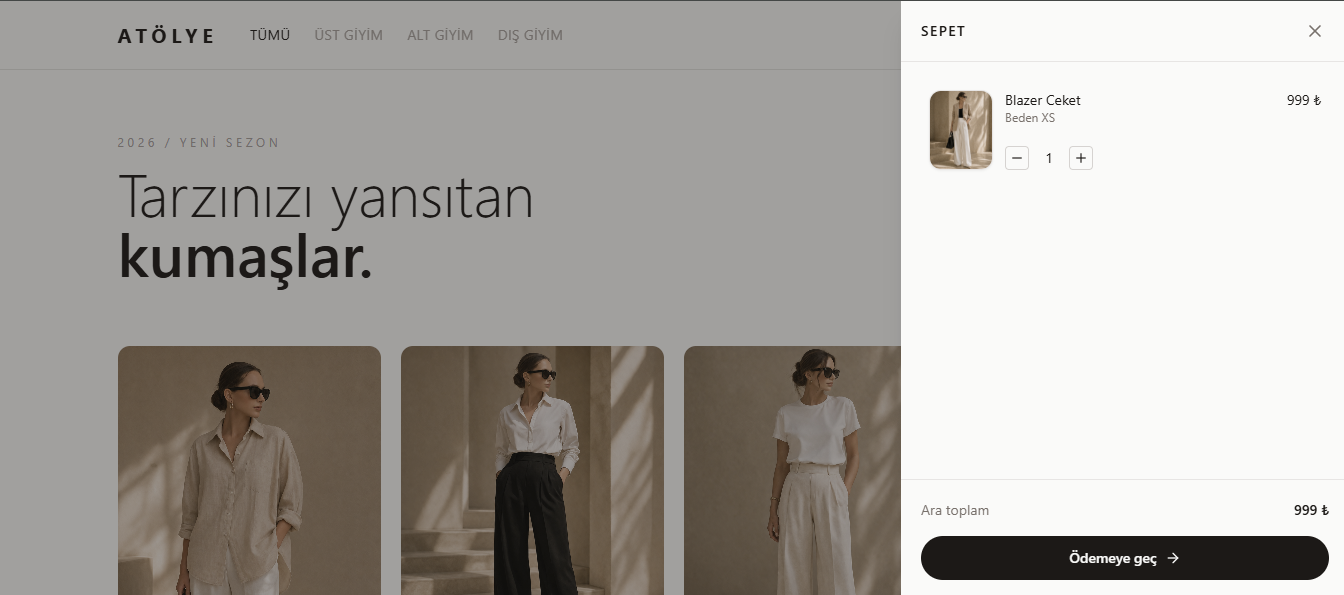
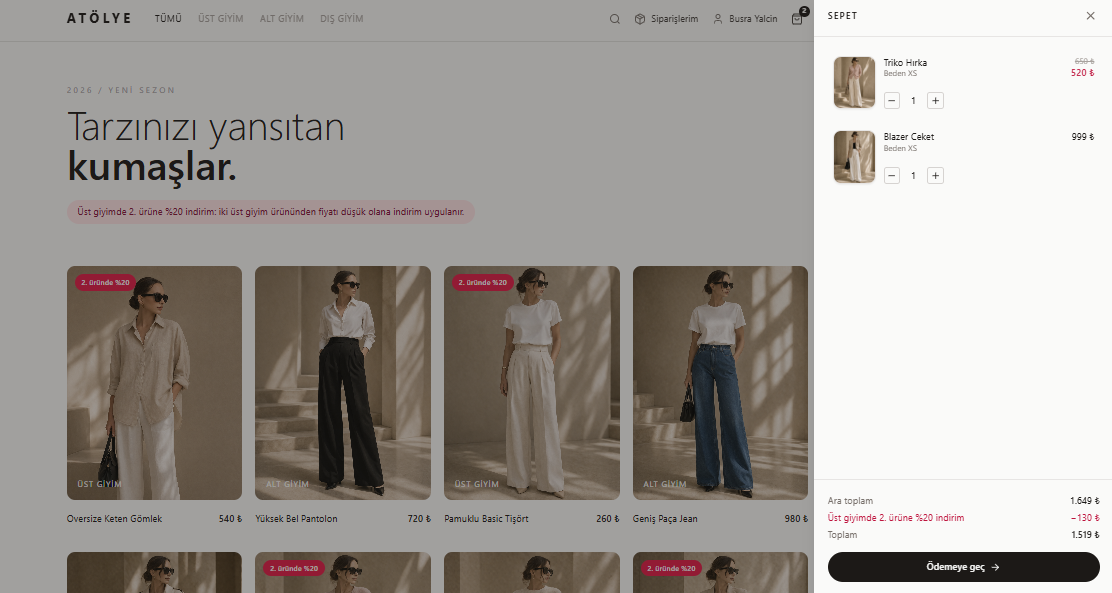
README update

diff --git a/README.md b/README.md
@@ -1,79 +1,200 @@
-## Preview
+# Atölye — Clothing E-Commerce Store
 
-![Homepage](./homepage.png)
+A full-stack clothing store built with **Next.js**, **PostgreSQL** and **Stripe**. It covers the whole order lifecycle: per-size stock, checkout, cancellations, returns, invoices, shipping, and a campaign engine.
 
-# Atölye — Kıyafet Mağazası (Next.js)
+![Atölye storefront](./homepage.png)
 
-PostgreSQL (Prisma ORM), gerçek kimlik doğrulama, korumalı sipariş API'si,
-Stripe (test modu) ile gerçekçi ödeme akışı.
+---
 
-## Çalıştırma
+## Features
 
-Gereken: Node.js 18+ ve bir PostgreSQL veritabanı (örn. [Neon](https://neon.tech)).
+### For customers
+- **Browse and shop:** filter by category, search, preview products and pick a size. Sold-out sizes are disabled and low-stock sizes show a "Last 2" badge.
+- **Persistent cart:** the cart survives page reloads and the round trip to the payment page.
+- **Secure checkout:** card details are entered on Stripe's hosted page and never touch this server.
+- **Individual or corporate invoicing:** customers can enter a national ID (optional) or company name, tax number and tax office.
+- **My Orders:** a progress bar (Paid → Preparing → Shipped → Delivered), shipment tracking number, and full order history.
+- **One-click cancellation** until the order ships, with an automatic refund to the card.
+- **Returns within 14 days of delivery:** choose items, quantities and a reason, then follow the request status.
+- **Printable invoice** that can be saved as a PDF from the browser.
+- **Campaign:** 20% off the cheaper item in every pair of tops, applied automatically, plus a cart hint when one more top would unlock the discount.
+- **Accounts:** email and password sign-up, Google sign-in, and password reset by email.
+
+### For the store owner (admin panel)
+- **Dashboard** with orders to prepare, open return requests and low-stock alerts.
+- **Order workflow:** prepare → ship (carrier and tracking number) → deliver, or cancel with a refund.
+- **Return requests:** approve, or reject with a note the customer sees. When the items arrive, refund and optionally restock them.
+- **Products and stock:** per-size stock editing. Products can be taken off sale without breaking past orders and invoices.
+- **Users:** manage accounts and roles.
+
+---
+
+## Tech stack
+
+| Layer | Technology |
+|---|---|
+| Framework | Next.js 14 (App Router, Server Components, Route Handlers) |
+| UI | React 18, Tailwind CSS, lucide-react |
+| Database | PostgreSQL with Prisma ORM |
+| Payments | Stripe Checkout (test mode) and webhooks |
+| Auth | JWT sessions with `jose` in httpOnly cookies, `bcryptjs`, Google OAuth |
+| Email | Resend (password reset) |
+
+---
+
+## How it works
+
+### Order lifecycle
+
+```mermaid
+stateDiagram-v2
+    [*] --> pending: checkout (stock reserved)
+    pending --> paid: Stripe webhook
+    pending --> expired: payment abandoned / session expired (stock released)
+    paid --> preparing
+    paid --> cancelled
+    preparing --> shipped: carrier + tracking number
+    preparing --> cancelled
+    shipped --> delivered
+    shipped --> cancelled: admin only
+    delivered --> [*]: 14-day return window
+```
+
+### Engineering decisions
+
+- **Server-side pricing.** The client only sends product IDs, sizes and quantities. Prices, stock and campaign discounts are recalculated on the server. The cart and the server share one pricing function (`src/lib/campaign.js`), so the total a customer sees is always the amount charged.
+- **Atomic stock reservation.** Stock is decremented inside a transaction with a `stock >= quantity` condition, so two customers can never buy the last item at the same time. Reservations are released when the customer leaves the payment page, when the Stripe session expires, or by a cleanup job if a webhook is missed.
+- **Idempotent state transitions.** Every status change is a conditional update (`WHERE status IN (...)`). Duplicate webhooks, double clicks and retries cannot deduct stock twice or refund twice. Refunds are also sent with Stripe idempotency keys.
+- **Webhook with a fallback.** Orders are marked paid by the signed Stripe webhook. The success page also verifies the session with Stripe, in case the webhook is late.
+- **Fair partial refunds.** When a discounted line is partially returned, the refund is split proportionally across units. Repeated partial returns never add up to more than the customer paid.
+- **Swappable payment provider.** All payment calls live in `src/lib/payments.js`. Stripe does not support businesses based in Turkey, so moving to a local provider such as iyzico or PayTR only touches this one file.
+- **Invoices.** Invoices use the GİB e-Archive number format (`ATL2026000000001`). VAT is split from VAT-inclusive prices, and `issueWithProvider` in `src/lib/invoice.js` is the integration point for an official e-Archive provider.
+
+---
+
+## Getting started
+
+### Prerequisites
+- Node.js 18 or later
+- A PostgreSQL database (for example a free [Neon](https://neon.tech) database)
+- A free [Stripe](https://dashboard.stripe.com) account (test mode, no real card needed)
+
+### 1. Install
 
 ```bash
+git clone https://github.com/busrayalcinn/shopping.git
+cd shopping
 npm install
 cp .env.example .env
 ```
 
-`.env` içine kendi değerlerini gir:
+### 2. Configure `.env`
 
-* `DATABASE_URL` — PostgreSQL bağlantı adresin (`postgresql://kullanici:sifre@host/db?sslmode=require`)
-* `SESSION_SECRET` — en az 32 karakter, üretmek için:
-  ```bash
-  node -e "console.log(require('crypto').randomBytes(32).toString('hex'))"
-  ```
-* `STRIPE_SECRET_KEY`, `STRIPE_WEBHOOK_SECRET`, `RESEND_API_KEY`, `GOOGLE_CLIENT_ID`, `GOOGLE_CLIENT_SECRET` — aşağıdaki ilgili bölümlere bak.
+| Variable | Description |
+|---|---|
+| `DATABASE_URL` | PostgreSQL connection string |
+| `SESSION_SECRET` | At least 32 random characters (see below) |
+| `STRIPE_SECRET_KEY` | Stripe **test** secret key (`sk_test_...`) |
+| `STRIPE_WEBHOOK_SECRET` | `whsec_...` value printed by `stripe listen` |
+| `RESEND_API_KEY` | For password reset emails |
+| `GOOGLE_CLIENT_ID` / `GOOGLE_CLIENT_SECRET` | For Google sign-in |
+| `NEXTAUTH_URL` | Site URL, e.g. `http://localhost:3000` |
+| `SELLER_NAME`, `SELLER_ADDRESS`, `SELLER_TAX_OFFICE`, `SELLER_TAX_ID`, `SELLER_EMAIL` | Seller details printed on invoices |
+| `VAT_RATE` | VAT percentage (default `10`) |
+| `INVOICE_PREFIX` | 3-letter invoice number prefix (default `ATL`) |
 
-Veritabanı şemasını oluştur ve demo ürünleri ekle:
+Generate a session secret:
 
 ```bash
-npm run db:migrate   # Prisma migration'ları çalıştırır (ilk seferde tablo isteyecek)
-npm run db:seed       # PostgreSQL'e demo ürünleri yazar
+node -e "console.log(require('crypto').randomBytes(32).toString('hex'))"
 ```
 
-Sunucuyu başlat:
+### 3. Set up the database
+
+```bash
+npm run db:migrate   # create tables
+npm run db:seed      # add demo products with stock
+```
+
+### 4. Run
 
 ```bash
 npm run dev
 ```
 
-Tarayıcıda aç: http://localhost:3000
+Open http://localhost:3000.
 
+### 5. Test payments
 
-### Stripe kurulumu (test modu, ücretsiz)
-1. [dashboard.stripe.com](https://dashboard.stripe.com) üzerinde ücretsiz bir hesap aç (gerçek kart istemez, test modu varsayılan).
-2. `Developers → API keys` sayfasından **test** secret key'i kopyala → `.env` içinde `STRIPE_SECRET_KEY`.
-3. Webhook'u yerelde dinlemek için [Stripe CLI](https://stripe.com/docs/stripe-cli) kur ve çalıştır:
-   ```bash
-   stripe listen --forward-to localhost:3000/api/webhook
-   ```
-   Terminalde basılan `whsec_...` değerini `.env` içindeki `STRIPE_WEBHOOK_SECRET`'a koy.
-4. Ödeme sayfasında test kartı kullan: `4242 4242 4242 4242`, ileri bir tarih, herhangi bir CVC.
+Install the [Stripe CLI](https://stripe.com/docs/stripe-cli) and forward webhooks to your local server:
 
-## Akış
-1. Ürünleri filtrele/ara, bir ürüne tıkla, beden seç → sepete eklenir.
-2. Sepette "Giriş yap ve devam et" → kayıt ol veya giriş yap (bcrypt ile hash'lenmiş şifre, httpOnly oturum çerezi).
-3. Ad/adres formunu doldur → `/api/checkout` sepeti sunucuda yeniden fiyatlandırır, sipariş `pending` durumuyla
-   ve sipariş kalemleriyle (OrderItem) veritabanına yazılır, Stripe Checkout Session açılır.
-4. Kullanıcı Stripe'ın kendi barındırdığı ödeme sayfasına yönlendirilir — kart bilgisi bu siteden hiç geçmez.
-5. Ödeme tamamlanınca Stripe `checkout.session.completed` webhook'unu `/api/webhook`'a gönderir; imza doğrulanır
-   ve sipariş `paid` olarak işaretlenir. Kullanıcı `/order/success`'e döner (webhook henüz ulaşmadıysa o sayfa
-   session'ı Stripe'tan tekrar sorgulayıp yedek bir doğrulama yapar). İptal edilirse `/order/cancel`'a döner.
+```bash
+stripe listen --forward-to localhost:3000/api/webhook
+```
 
-## Yapı
-- `prisma/schema.prisma` — veritabanı şeması (User, PasswordReset, Order, OrderItem, Product)
-- `prisma/seed/products.js` — demo ürün seed script'i (`npm run db:seed`)
-- `src/lib/db.js` — Prisma sorguları (kullanıcı, şifre sıfırlama, ürün, sipariş + ödeme durumu)
-- `src/lib/auth.js` — oturum yönetimi (jose JWT, httpOnly çerez)
-- `src/lib/cart.js` — sepet doğrulama/fiyatlandırma (istemciden gelen fiyata güvenilmez, veritabanından async okur)
-- `src/lib/constants.js` — arayüz ve API'nin ortak sabitleri
-- `src/app/page.js` — ana sayfa (sunucu bileşeni; ürünleri ve oturumu sunucuda hazırlar)
-- `src/components/Store.js` — arayüz (istemci bileşeni)
-- `src/app/api/auth/*` — register / login / logout / me / forgot-password / reset-password
-- `src/app/api/products/route.js` — GET ürünler
-- `src/app/api/orders/route.js` — GET kendi siparişlerini listele (oturum gerekli)
-- `src/app/api/checkout/route.js` — POST: pending sipariş + kalemlerini oluştur, Stripe Checkout Session aç
-- `src/app/api/webhook/route.js` — Stripe webhook: imza doğrula, ödemeyi `paid` işaretle
-- `src/app/order/success/page.js`, `src/app/order/cancel/page.js` — Stripe'tan dönüş sayfaları
-- `src/app/admin/*` — ürün, sipariş ve kullanıcı yönetimi (yalnızca `role: admin`)
+Put the `whsec_...` value it prints into `STRIPE_WEBHOOK_SECRET`. At checkout, use the test card `4242 4242 4242 4242` with any future date and any CVC.
+
+### 6. Become an admin
+
+Sign up on the site, then open Prisma Studio and change your user's `role` to `admin`:
+
+```bash
+npx prisma studio
+```
+
+The admin panel is at `/admin`.
+
+---
+
+## Scripts
+
+| Command | Description |
+|---|---|
+| `npm run dev` | Start the development server |
+| `npm run build` | Production build |
+| `npm run start` | Run the production build |
+| `npm run db:migrate` | Apply migrations in development |
+| `npm run db:deploy` | Apply migrations in production |
+| `npm run db:seed` | Add demo products and stock |
+
+---
+
+## Project structure
+
+```
+prisma/
+  schema.prisma           Data model: users, products, stock, orders, returns, invoices
+  migrations/             SQL migrations
+  seed/products.js        Demo products and stock
+
+src/lib/
+  orders.js               Order lifecycle: reservation, payment, cancel, shipping, returns
+  campaign.js             Campaign rules and cart pricing (shared by client and server)
+  cart.js                 Server-side cart validation and pricing
+  payments.js             Payment provider calls (Stripe)
+  invoice.js              VAT split, invoice numbering, e-Archive integration point
+  orderStatus.js          Status labels and rules (shared by client and server)
+  auth.js                 Sessions (JWT in httpOnly cookies)
+  db.js                   Prisma client, user and product queries
+
+src/app/
+  page.js                 Storefront
+  account/orders/         My Orders, cancellations, returns, invoices
+  admin/                  Dashboard, orders, returns, products and stock, users
+  order/success, cancel   Pages customers land on after the Stripe payment page
+  api/checkout            Validate cart, reserve stock, open a Stripe session
+  api/webhook             Signed Stripe webhook
+  api/orders/[id]/...     Customer cancel and return endpoints
+  api/admin/...           Admin endpoints (role-checked)
+  api/auth/...            Sign-up, login, logout, Google OAuth, password reset
+```
+
+---
+
+## Roadmap
+
+- [ ] Move payments to a provider that supports Turkish businesses (iyzico / PayTR)
+- [ ] Connect an e-Archive invoice provider (Paraşüt, Logo, …)
+- [ ] Shipping fee and free-shipping threshold
+- [ ] Carrier integration so tracking numbers and delivery status update automatically
+- [ ] Manage campaigns from the admin panel
